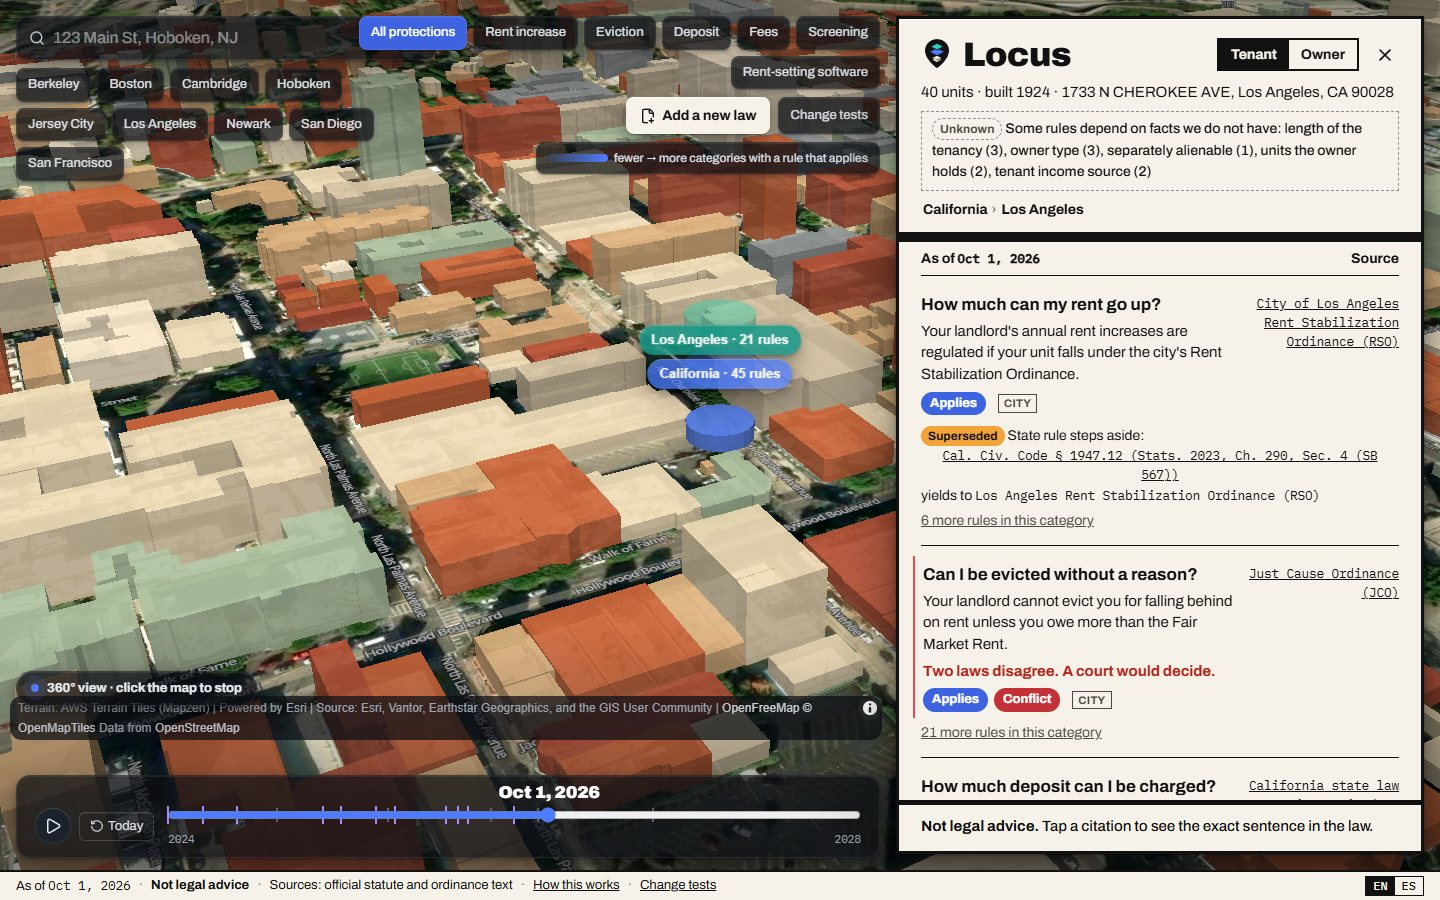
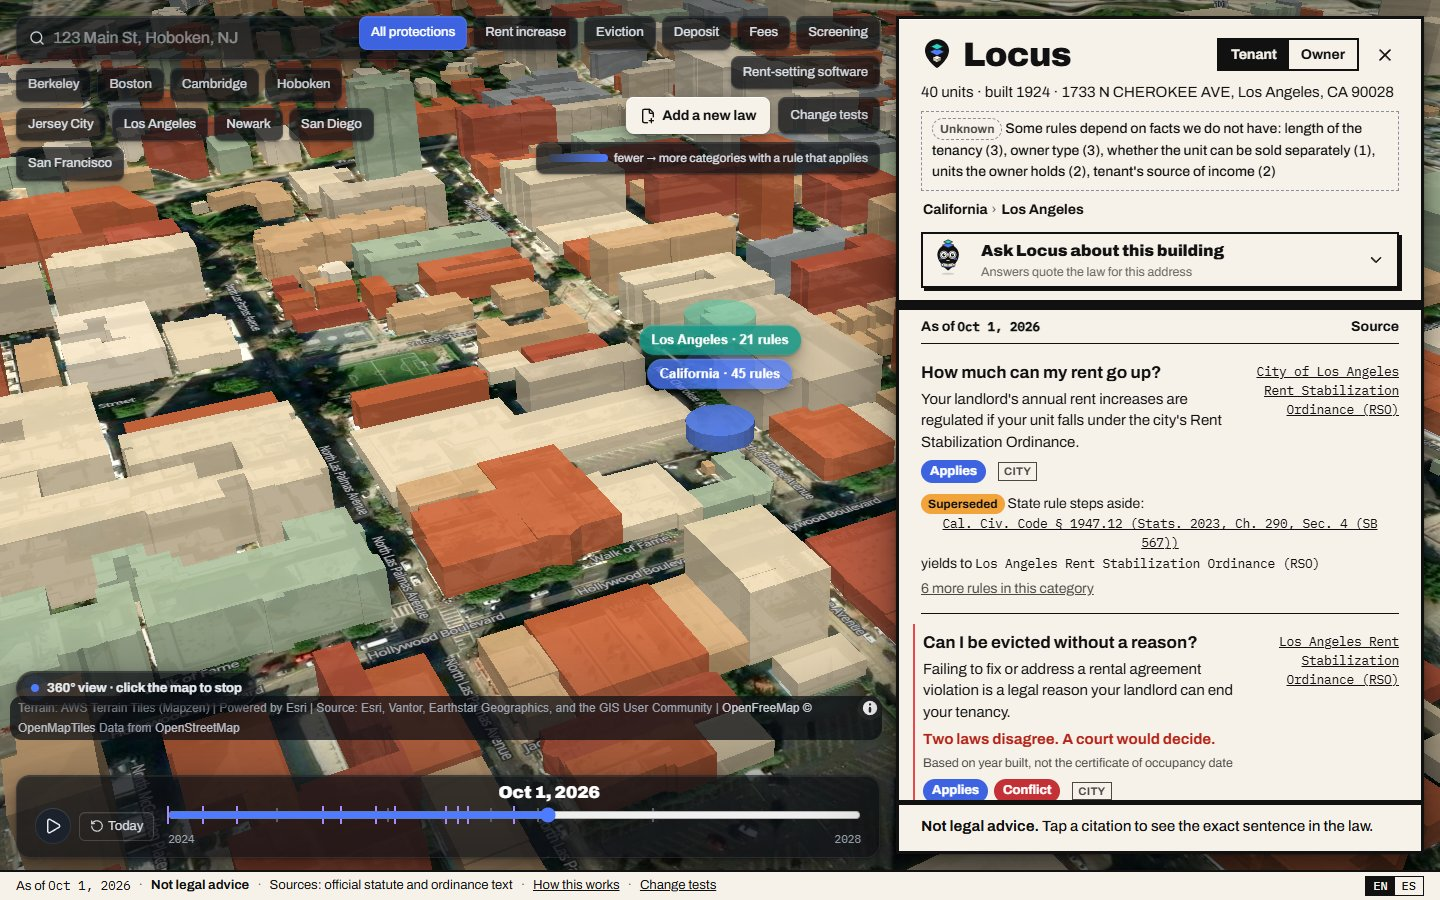
README: fresh screenshots from the live site, add Ask Locus to the tour

diff --git a/README.md b/README.md
@@ -123,10 +123,12 @@ No rule text, citation, threshold or date is typed into code — everything come
     <td><sub><b>English and Spanish.</b> Answers are translated; legal quotes stay in their original language.</sub></td>
   </tr>
   <tr>
-    <td colspan="2"><img src="assets/screens/05-change-tests.png" alt="Change tests page comparing expected and actual results"></td>
+    <td><img src="assets/screens/06-ask-locus.jpg" alt="Ask Locus: the Loci mascot answering an eviction question with cited rules"></td>
+    <td><img src="assets/screens/05-change-tests.png" alt="Change tests page comparing expected and actual results"></td>
   </tr>
   <tr>
-    <td colspan="2"><sub><b>Change tests.</b> T1–T5 side by side: what the test file expects, what Locus computed, and which addresses are affected or flagged for human review.</sub></td>
+    <td><sub><b>Ask Locus.</b> Ask in your own words. Loci answers only from this building's verified rules, each with its quote and citation, and says so when no rule covers the question.</sub></td>
+    <td><sub><b>Change tests.</b> T1–T5 side by side: what the test file expects, what Locus computed, and which addresses are affected or flagged for human review.</sub></td>
   </tr>
 </table>
 
